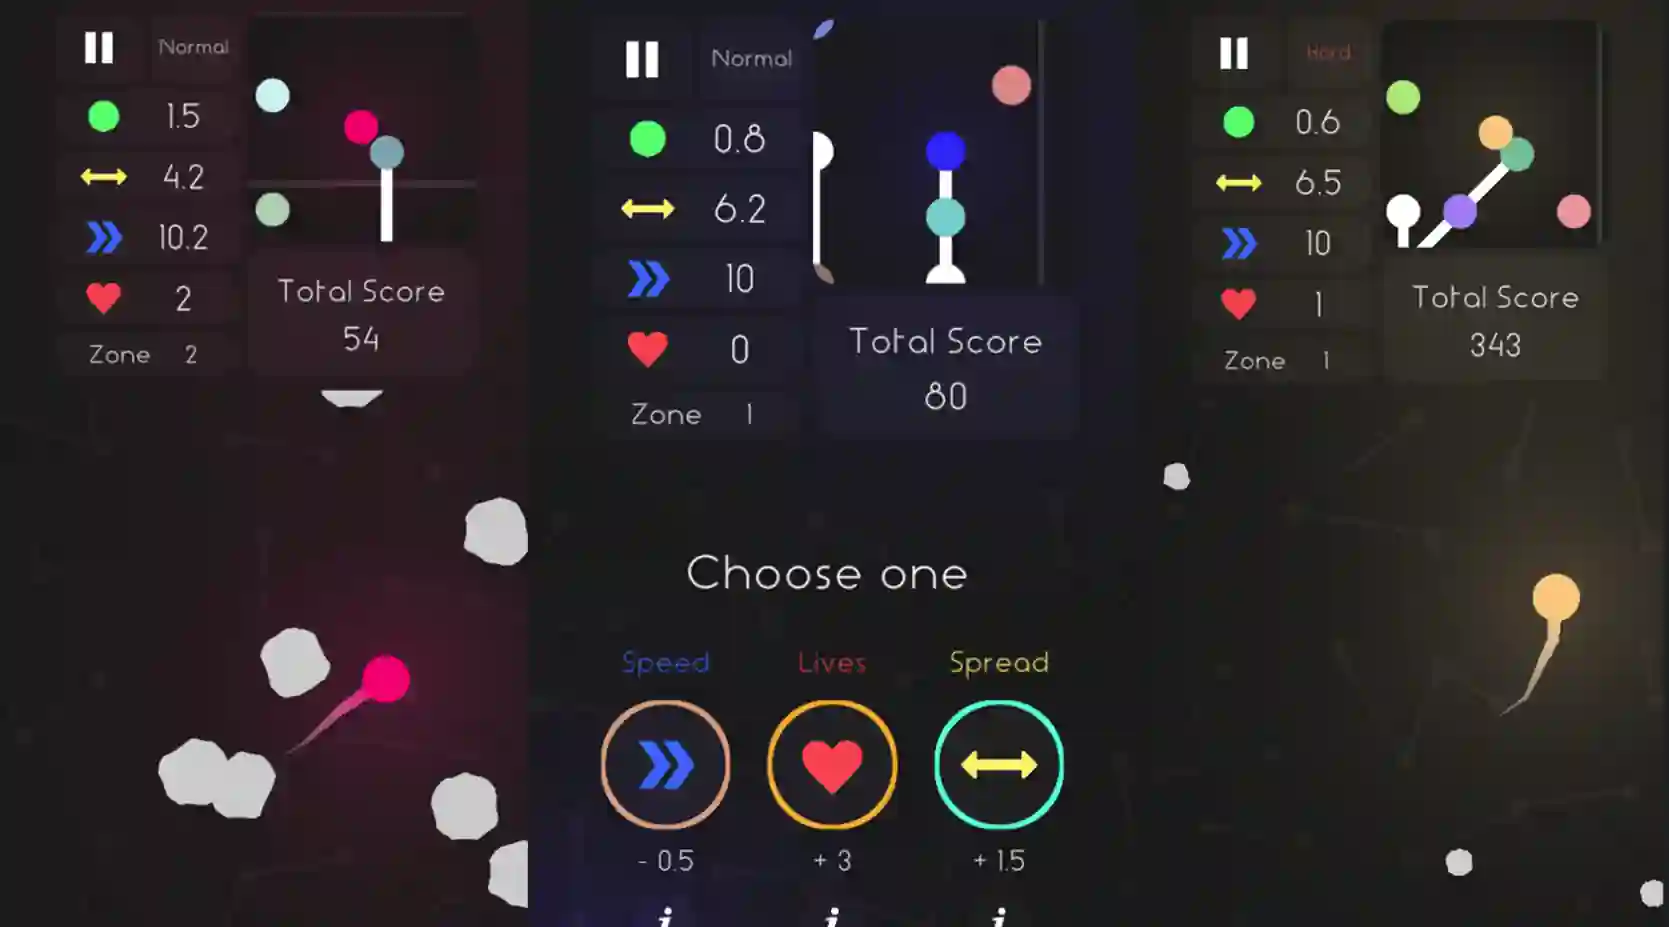
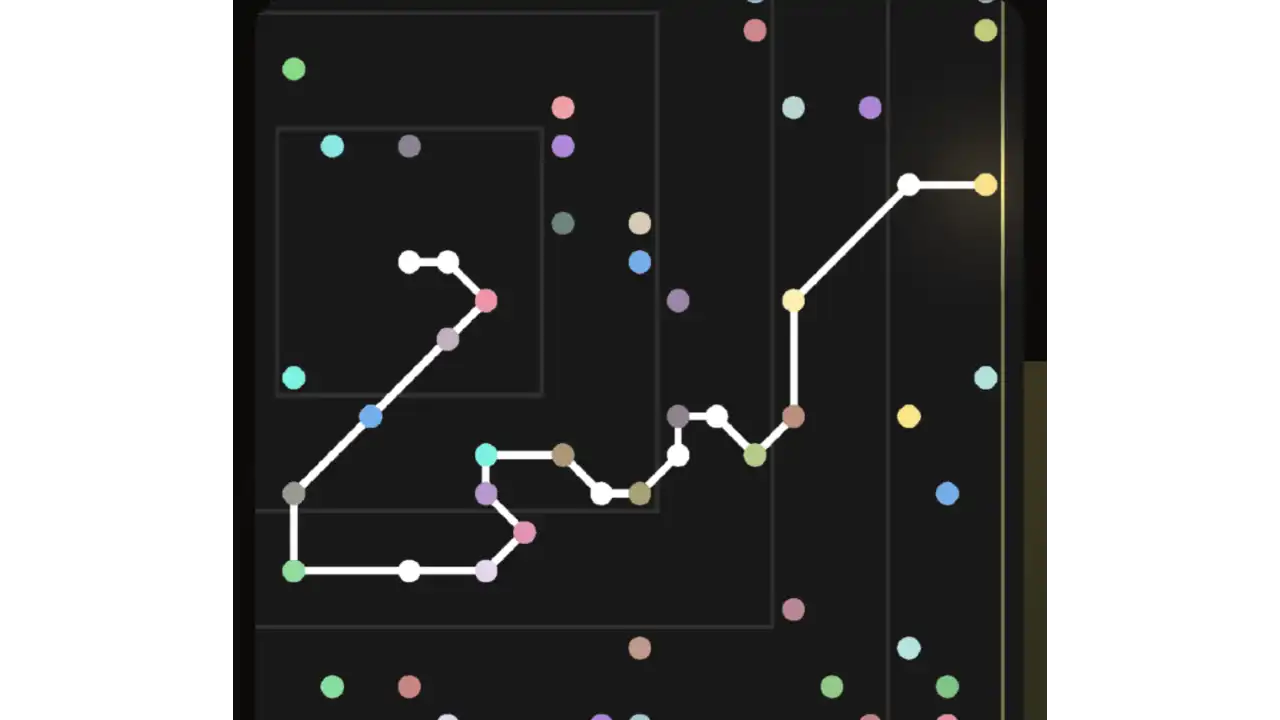
style improvements

diff --git a/style.css b/style.css
@@ -1,11 +1,11 @@
 :root {
-  --background: rgb(0, 4, 15);
+  --background: rgb(0, 2, 8);
   --font-default: rgb(255, 255, 255);
   --orbit-border: rgb(199, 199, 199);
   --border-shadow-default: rgb(163, 163, 163);
   --cube-dark-tile: rgb(31, 31, 31);
   --cube-blue-tile: rgb(0, 83, 238);
-  --constellation-glow: rgb(253, 255, 112);
+  --constellation-glow: rgb(255, 255, 255);
   --gamedevblog-glow: rgb(255, 172, 95);
   --guessphrase-glow: rgb(151, 255, 137);
   --webbedwords-glow: rgb(163, 228, 255);
@@ -60,19 +60,19 @@ a {
 
   background:
       radial-gradient(circle at 40% 30%,
-          rgba(56, 182, 255, 0.9) 0%,
+          rgba(61, 61, 61, 0.9) 0%,
           rgba(0, 0, 0, 0) 40%),
 
       radial-gradient(circle at 60% 30%,
-          rgba(0, 83, 207, 0.9) 0%,
+          rgba(37, 37, 37, 0.9) 0%,
           rgba(255, 120, 90, 0) 40%),
 
       radial-gradient(circle at 40% 70%,
-          rgba(62, 75, 255, 0.9) 0%,
+          rgba(31, 31, 31, 0.9) 0%,
           rgba(190, 40, 255, 0) 40%),
 
       radial-gradient(circle at 60% 70%,
-          rgba(0, 129, 235, 0.9) 0%,
+          rgba(63, 63, 63, 0.9) 0%,
           rgba(80, 220, 255, 0) 40%);
 
   filter: blur(50px);
@@ -128,7 +128,7 @@ a {
   left: 50%;
   width: 400px;
   height: 800px;
-  border: 3px solid var(--orbit-border);
+  border: 4px solid var(--orbit-border);
   border-radius: 50%;
   pointer-events: none;
   box-shadow: 0px 0px 50px 0px var(--border-shadow-default);
@@ -145,27 +145,31 @@ a {
 }
 .visual-orbit.constellation {
   border: 10px solid var(--constellation-glow);
-  box-shadow: 0px 0px 70px 10px var(--constellation-glow);
+  box-shadow: 0px 0px 50px 10px var(--constellation-glow);
 }
 .visual-orbit.gamedevblog {
   border: 10px solid var(--gamedevblog-glow);
-  box-shadow: 0px 0px 70px 10px var(--gamedevblog-glow);
+  box-shadow: 0px 0px 50px 10px var(--gamedevblog-glow);
 }
 .visual-orbit.guessphrase {
   border: 10px solid var(--guessphrase-glow);
-  box-shadow: 0px 0px 70px 10px var(--guessphrase-glow);
+  box-shadow: 0px 0px 50px 10px var(--guessphrase-glow);
 }
 .visual-orbit.webbedwords {
   border: 10px solid var(--webbedwords-glow);
-  box-shadow: 0px 0px 70px 10px var(--webbedwords-glow);
+  box-shadow: 0px 0px 50px 10px var(--webbedwords-glow);
 }
 .visual-orbit.circle {
   border-radius: 50%;
   width: 800px;
   height: 800px;
 }
+.visual-orbit.small-shadow {
+  box-shadow: 0px 0px 100px 10px black;
+  border-size: 5px;
+}
 .visual-orbit.logo {
-  border: 5px solid var(--logo-glow);
+  border: 10px solid var(--logo-glow);
   box-shadow: 0px 0px 100px 10px var(--logo-glow);
 }
 .visual-orbit.box {
@@ -212,6 +216,9 @@ a {
 }
 .satellite:hover {
   transform: scale(1.1);
+}
+.satellite:active {
+  transform: scale(1);
 }
 .satellite.one.constellation {
   animation-delay: -30s;
@@ -303,8 +310,8 @@ a {
   background-size: cover;
   background-position: center;
   background-repeat: no-repeat;
-  filter: blur(8px);
-  opacity: 0.6;
+  filter: blur(4px);
+  opacity: 0.4;
 }
 .project-background.gamedevblog {
   background: url('assets/backgrounds/gamedevblog.webp');

diff --git a/script.js b/script.js
@@ -53,6 +53,7 @@ function satelliteClick(project) {
 
             visualOrbits.forEach(element => {
                 element.classList.remove('circle');
+                element.classList.remove('small-shadow');
             });
 
             blackCovers.forEach(element => {
@@ -76,6 +77,7 @@ function satelliteClick(project) {
         visualOrbits.forEach(element => {
             element.classList.add('circle');
             element.classList.add(project);
+            element.classList.add('small-shadow');
         });
 
         blackCovers.forEach(element => {
@@ -215,4 +217,4 @@ satellites.forEach(satellite => {
 logo.addEventListener('mouseenter', () => logoHover(1));
 logo.addEventListener('mouseleave', () => logoHover(0));
 
-logo.addEventListener('click', () => logoClick())
+logo.addEventListener('click', () => logoClick());
